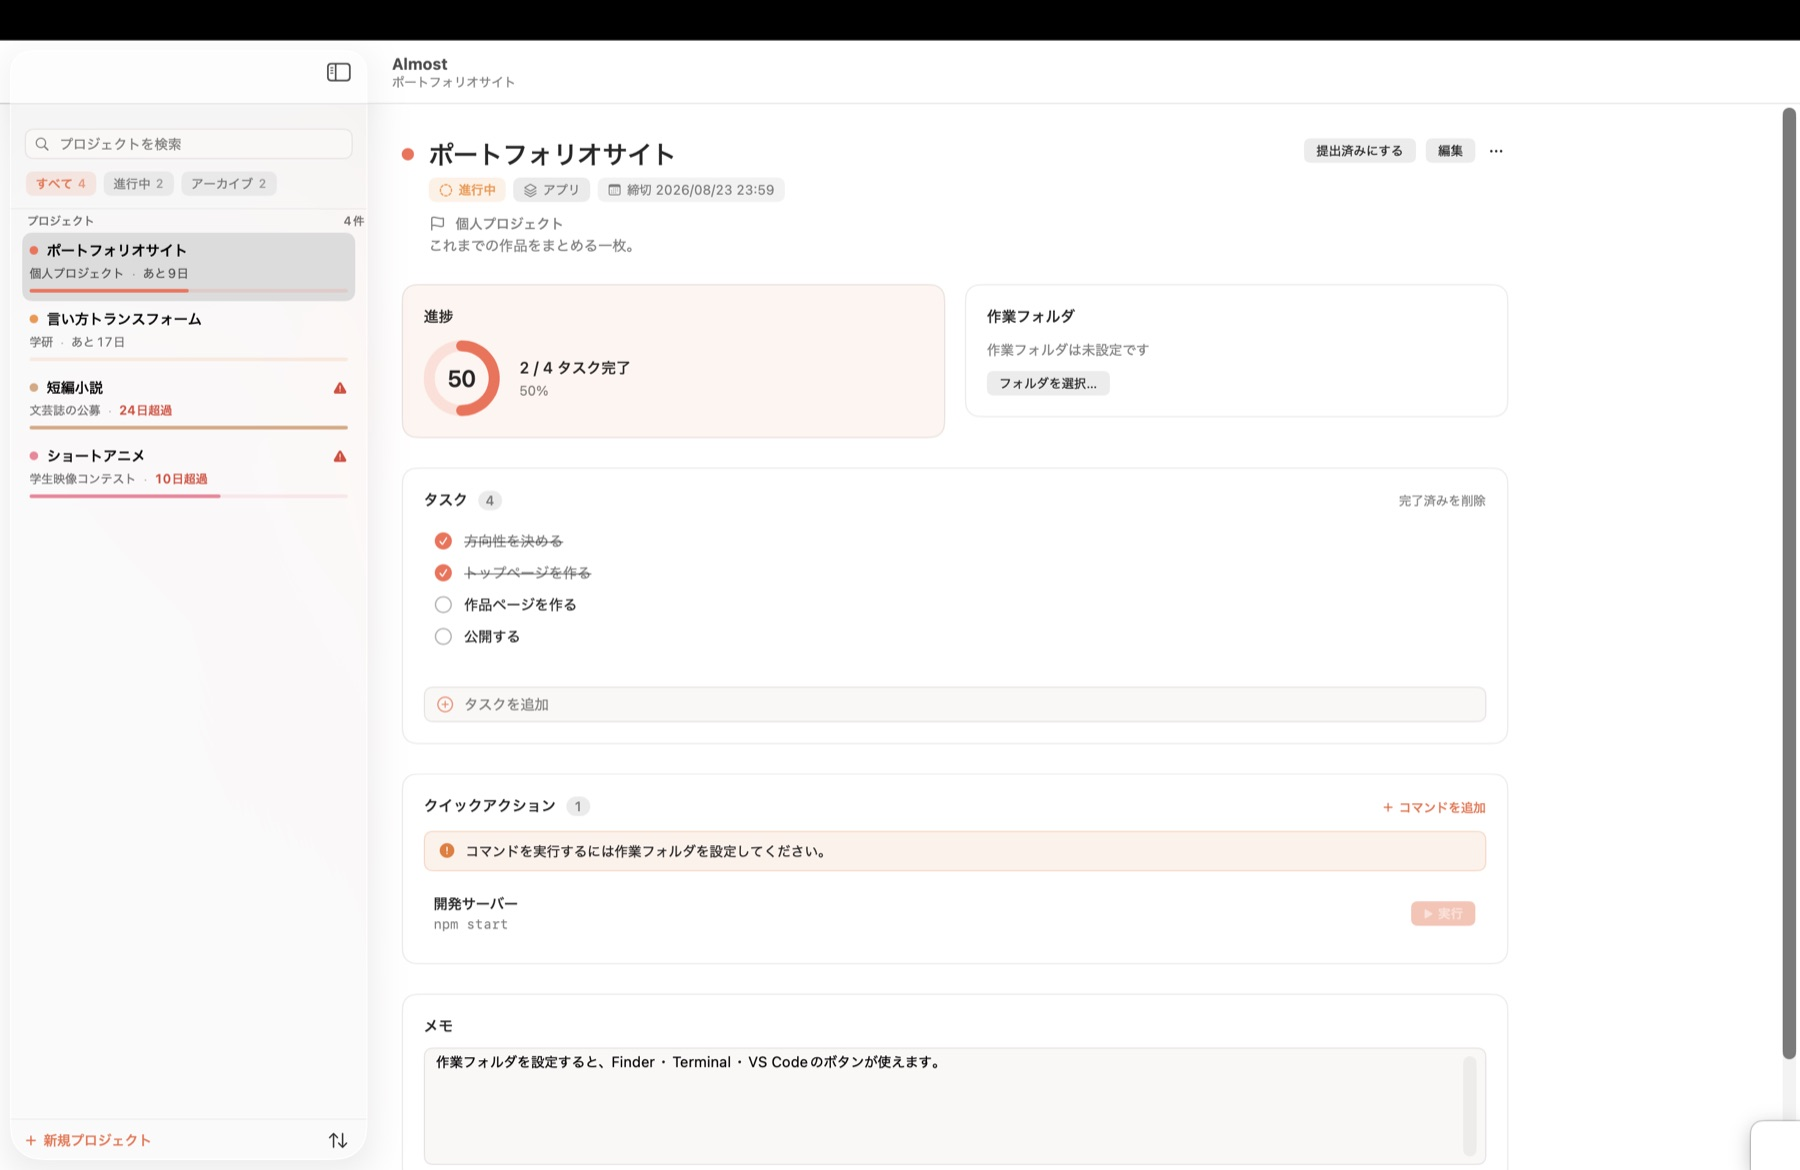
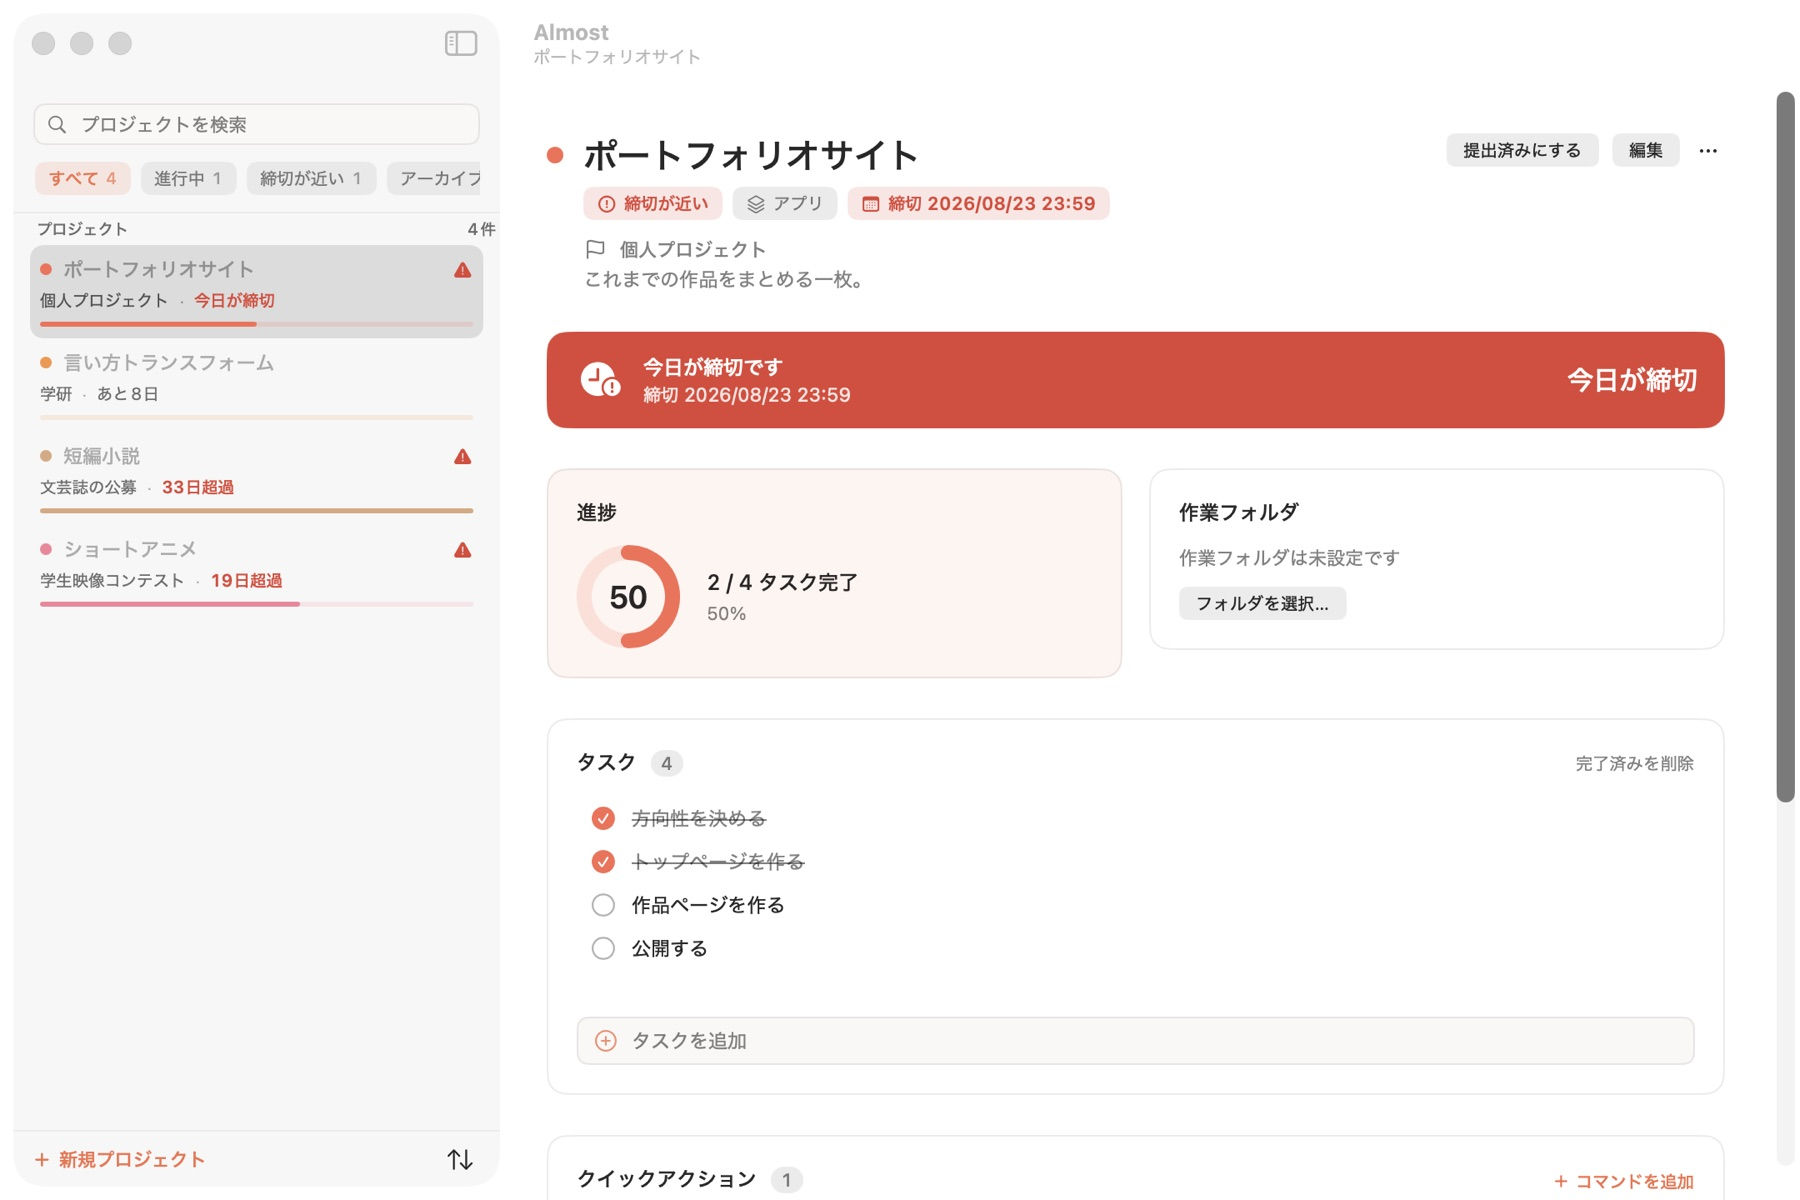
KV反映と新規プロジェクト追加（N-Helper / Termry / FileFlow / TempShelf / VideoWallpaper）

diff --git a/index.html b/index.html
@@ -9,7 +9,7 @@
 <meta property="og:title" content="K_Z_U — Portfolio">
 <meta property="og:description" content="macOS アプリ、デスクトップ環境、MCP サーバー、Minecraft サーバー運用。つくった道具の記録。">
 <meta property="og:type" content="website">
-<meta property="og:image" content="assets/minessh.jpg">
+  <meta property="og:image" content="assets/minessh-kv.jpg">
 <link rel="preconnect" href="https://fonts.googleapis.com">
 <link rel="preconnect" href="https://fonts.gstatic.com" crossorigin>
 <link href="https://fonts.googleapis.com/css2?family=Instrument+Serif:ital@0;1&family=Schibsted+Grotesk:wght@400;500;600&family=Zen+Kaku+Gothic+New:wght@400;500&family=JetBrains+Mono:wght@400;500&display=swap" rel="stylesheet">
@@ -161,6 +161,18 @@
   .detail-fig .plate { border-radius: 12px; }
   .detail-fig .plate img { height: auto; object-fit: contain; }
   .detail-fig .note { right: -22px; bottom: -22px; max-width: 26ch; }
+  /* ── previews (original screenshots shown under the key visual) ── */
+  .previews { padding-top: 3vh; }
+  .previews .pv-head { font-family: var(--mono); font-size: 10px; letter-spacing: .22em;
+                       text-transform: uppercase; opacity: .5; border-bottom: 1px solid var(--rule-2);
+                       padding-bottom: 10px; display: flex; justify-content: space-between; gap: 16px; }
+  .previews .pv-head span:last-child { opacity: .6; text-transform: none; letter-spacing: .04em;
+                                      font-family: var(--jp); font-size: 11px; }
+  .previews figure { position: relative; margin: 30px 0 0; }
+  .previews figure + figure { margin-top: 7vh; }
+  .previews figure .plate { border-radius: 12px; }
+  .previews figure .plate img { width: 100%; height: auto; object-fit: contain; }
+  .previews figure .note { right: -22px; bottom: -22px; max-width: 26ch; }
   .prose-grid { display: grid; grid-template-columns: .28fr .72fr; gap: 56px; padding: 10vh 0 6vh; align-items: start; }
   .marginnote { font-family: var(--mono); font-size: 10px; line-height: 2; letter-spacing: .04em; opacity: .55; text-align: right; }
   .prose-grid .lede { margin: 0; font-family: var(--jp); font-size: 17px; line-height: 2.2; }
@@ -321,6 +333,8 @@
     <div class="note">fig.01 — <span id="d-caption"></span></div>
   </div>
 
+  <section class="previews" id="d-previews" hidden></section>
+
   <section class="prose-grid">
     <div class="marginnote">傍注 / margin note<br>——<br>設計の判断だけを<br>短く残す。</div>
     <div>
@@ -367,7 +381,7 @@
 const PROJECTS = [
   /* ── featured ───────────────────────────────── */
   { title: "MineSSH", year: "2026.07", role: "設計・実装", stack: "Tauri · Rust · TypeScript",
-    img: "assets/minessh.jpg",
+    img: "assets/minessh.jpg", kv: "assets/minessh-kv.jpg",
     lede: "Minecraft サーバーの更新を、壊さずに終わらせる。",
     caption: "デプロイ前の差分確認",
     body: "Skript は 1 行の書き損じでサーバー全体が黙る。転送する前に検証し、壊れていたら自動で元に戻すところまでを 1 本の macOS アプリにまとめた。手順を覚えていなくても事故が起きない状態を、道具の側でつくっている。",
@@ -376,16 +390,16 @@ const PROJECTS = [
             ["備考", "U-22 プログラミングコンテスト 提出作品"]] },
 
   { title: "Almost", year: "2026.08", role: "設計・実装", stack: "Swift · SwiftUI · macOS",
-    img: "assets/almost.jpg",
+    img: "assets/almost.jpg", kv: "assets/almost-kv.jpg",
     lede: "「あと少し」で止まる制作物を、最後まで運ぶ。",
     caption: "締切と作業フォルダ",
-    body: "タスクではなく、締切と作業フォルダを画面の中心に置いた。残り日数は常に見えていて、3 日を切ると表示が変わり、超えると赤くなる。Finder・ターミナル・エディタはワンクリックで開く。管理するためではなく、手を動かし始めるためのアプリ。",
-    facts: [["形式", "macOS ネイティブアプリ"],
+    body: "タスクではなく、締切と作業フォルダを画面の中心に置いた。残り日数は常に見えていて、3 日を切ると表示が変わり、超えると赤くなる。Finder・ターミナル・エディタはワンクリック。登録したコマンドはアプリ内の zsh で走り、出力は色分けで読める。締切の 7 / 3 / 1 / 0 日前には通知が来る。",
+    facts: [["形式", "macOS ネイティブアプリ（Universal Binary）"],
             ["対象", "コンテスト応募・卒業制作・同人入稿・個人開発"],
-            ["構成", "Almost / AlmostKit の 2 ターゲット"]] },
+            ["備考", "クイックコマンド / 締切通知 / JSON バックアップ / 日英対応"]] },
 
   { title: "OpenCodeX", year: "2026.08", role: "個人開発", stack: "Tauri · React · TypeScript",
-    img: "assets/opencodex.jpg",
+    img: "assets/opencodex.jpg", kv: "assets/opencodex-kv.jpg",
     lede: "ローカルと SSH 先を、ひとつの机の上に。",
     caption: "プロジェクトと作業ルート",
     body: "プロジェクトが複数の作業ルート —— ローカルフォルダと SSH ホスト —— を束ねる。一度開いたルートは温かいまま残り、戻ってきても起動を待たされない。セッション・モデル選択・ツールの動き・権限・差分が、ひとつの面の上に並んでいる。",
@@ -394,7 +408,7 @@ const PROJECTS = [
             ["特徴", "起動済みルートへ再アタッチして待たない"]] },
 
   { title: "EyeVideo", year: "2026.08", role: "個人開発", stack: "Swift · ScreenCaptureKit",
-    img: "assets/eyevideo.jpg",
+    img: "assets/eyevideo.jpg", kv: "assets/eyevideo-kv.jpg",
     lede: "ミスった瞬間に、今のテイクだけ捨てる。",
     caption: "ホットキーと出力設定",
     body: "ゲームをしながら録画して、失敗した瞬間にホットキーを叩くと今のテイクを破棄して即座に録り直しが始まる。キャプチャ自体は一度も止まらない。自動復帰・スリープ抑止・断片書き出し・自動ロールオーバーまで面倒を見る。",
@@ -402,9 +416,54 @@ const PROJECTS = [
             ["基盤", "ScreenCaptureKit + AVAssetWriter"],
             ["特徴", "全画面のゲーム中でも効くグローバルホットキー"]] },
 
+  { title: "N-Helper", year: "2026.08", role: "設計・実装", stack: "React · TypeScript · Cloudflare Workers",
+    img: "assets/nhelp.jpg",
+    lede: "学校の「どこに聞けばいいか」に、まず答える。",
+    caption: "ウェルカム画面と話題チップ",
+    body: "N 高・S 高の生徒向けのヘルパー。Slack の使い方、Times、同好会、各種申請 —— 入り口がわからなくて詰まる質問に答える。回答を生むのは miibo 上の 2 体のエージェント（Mini / High）で、Worker は鍵を一切持たずに中継だけする。miibo の NDJSON の累積値は差分に直して SSE で流す。運ぶ層は薄いまま、判断はエージェント側。",
+    facts: [["形式", "Web アプリ + Electron デスクトップ版"],
+            ["対象", "Slack / Times / 同好会 / 各種申請 / 学校生活"],
+            ["公開", "n-help.myais.workers.dev"]] },
+
   /* ── archive ────────────────────────────────── */
+  { title: "Termry", year: "2026.08", role: "個人開発", stack: "Tauri · Rust · xterm.js",
+    img: "assets/termry.jpg",
+    lede: "ターミナルに、仕事の棚をつくる。",
+    caption: "ワークスペースとクイックコマンド",
+    body: "ワークスペースがプロジェクトごとのタブを束ねる。よく流すコマンドはパネルに置いてワンクリックで入力し、エイリアスと SSH プロファイルも同じ面に並べる。描画は WebGL の xterm —— 重い出力でもスクロールが止まらない。",
+    facts: [["形式", "macOS ターミナルアプリ（Tauri 2）"],
+            ["構成", "ワークスペース / タブ / クイックコマンド / SSH プロファイル"],
+            ["描画", "xterm.js + WebGL アドオン"]] },
+
+  { title: "FileFlow", year: "2026.08", role: "設計・実装", stack: "Swift · SwiftUI · AppKit",
+    img: "assets/fileflow.jpg",
+    lede: "Finder の次に開く、もう一台のファイラー。",
+    caption: "起動直後のホームビュー",
+    body: "タブ、グリッド / テーブル表示、Quick Look、一括リネーム、アーカイブの中身の閲覧まで。検索は構文解析つきのフィルタで、Spotlight と自前インデックスを切り替える。転送はジョブとして積んで、進行と停止をセンターで見る。",
+    facts: [["形式", "macOS ネイティブアプリ（Universal Binary）"],
+            ["検索", "クエリパーサ + ランキング / Spotlight・高速インデックス切替"],
+            ["配布", "DMG"]] },
+
+  { title: "TempShelf", year: "2026.08", role: "個人開発", stack: "Swift · SwiftUI · AppKit",
+    img: "assets/tempshelf.jpg",
+    lede: "「あとで使う」を、すぐ取り出せる場所に。",
+    caption: "一時置き場のメイン画面",
+    body: "テキスト・URL・画像・ファイルを置いて、あとですぐ取り出すためだけの一時置き場。クリップボードの中身を自動で拾うモードもあり、保存期間は 3 時間で勝手に消える。メモ管理も同期もアカウントもない —— 置くことと、取ることだけをする。",
+    facts: [["形式", "macOS アプリ（メニューバー常駐）"],
+            ["対象", "テキスト / URL / 画像 / ファイル"],
+            ["方針", "ローカル完結 / 自動消去 / 日英対応"]] },
+
+  { title: "VideoWallpaper", year: "2026.08", role: "個人開発", stack: "Swift · SwiftUI · AppKit",
+    img: "assets/videowallpaper.jpg",
+    lede: "デスクトップを、動く景色に。",
+    caption: "プレビューと背景への設定",
+    body: "ローカルの動画を選んで、そのままデスクトップアイコンの背面へループ再生させる。バッテリー駆動中は自動で一時停止し、動画が外部へ送られることは一度もない。",
+    facts: [["形式", "macOS ネイティブアプリ"],
+            ["再生", "デスクトップアイコンの背面でループ"],
+            ["配慮", "オフライン完結 / バッテリー時は自動停止"]] },
+
   { title: "MTM", year: "2026.08", role: "個人開発", stack: "Swift · AVFoundation · DSP",
-    img: "assets/mtm.jpg",
+    img: "assets/mtm.jpg", kv: "assets/mtm-kv.jpg",
     lede: "曲を放り込むと、音符ブロックの建造物になる。",
     caption: "採譜結果のピアノロール",
     body: "STFT で倍音を差し引きながら多重音のピッチを推定し、経路探索で旋律と低音を 1 本の線として抜き出す。ドラムは帯域別のスペクトラルフラックで拾う。出力は Minecraft のデータパック —— レッドストーンで実際に演奏される建造物になる。ffmpeg も Homebrew も要らない。",
@@ -479,7 +538,7 @@ const PROJECTS = [
             ["範囲", "今日のみ / 同時実行は 1 件"]] }
 ];
 
-const FEATURED_COUNT = 4;
+const FEATURED_COUNT = 5;
 
 /* ═══ render ════════════════════════════════════ */
 const $  = (s, r = document) => r.querySelector(s);
@@ -496,7 +555,7 @@ function renderIndex() {
       <div class="fig">
         <div class="plate" data-reveal="arch" data-para="${i % 2 === 0 ? "1.05" : "0.95"}"
              style="height:${figH(i)}; border-radius:${radius(i)};">
-          <img src="${esc(p.img)}" alt="${esc(p.title)} のスクリーンショット" loading="lazy" decoding="async">
+          <img src="${esc(p.kv || p.img)}" alt="${esc(p.title)} のキービジュアル" loading="lazy" decoding="async">
         </div>
         <div class="note">fig.0${i + 1} — ${esc(p.caption)}</div>
       </div>
@@ -525,10 +584,24 @@ function renderDetail(i) {
   $("#d-title").textContent   = p.title;
   $("#d-meta").textContent    = p.year + " / " + p.role;
   $("#d-stack").textContent   = p.stack;
-  $("#d-caption").textContent = p.caption;
   $("#d-lede").textContent    = p.lede;
   $("#d-body").textContent    = p.body;
-  $("#d-plate").innerHTML     = `<img src="${esc(p.img)}" alt="${esc(p.title)} のスクリーンショット" decoding="async">`;
+  /* key visual sits at the very top; the plain screenshot drops to a preview below */
+  $("#d-caption").textContent = p.kv ? "key visual" : p.caption;
+  $("#d-plate").innerHTML     = `<img src="${esc(p.kv || p.img)}" alt="${esc(p.title)} のキービジュアル" decoding="async">`;
+  const pv = $("#d-previews");
+  if (p.kv) {
+    pv.hidden = false;
+    pv.innerHTML = `
+      <div class="pv-head"><span>Preview</span><span>実際の画面</span></div>
+      <figure data-reveal="up">
+        <div class="plate"><img src="${esc(p.img)}" alt="${esc(p.title)} のスクリーンショット" loading="lazy" decoding="async"></div>
+        <div class="note">fig.02 — ${esc(p.caption)}</div>
+      </figure>`;
+  } else {
+    pv.hidden = true;
+    pv.innerHTML = "";
+  }
   $("#d-facts").innerHTML = (p.facts || [])
     .map(([k, v]) => `<li><span class="k">${esc(k)}</span><span class="v">${esc(v)}</span></li>`).join("");
   $("#d-next-title").textContent = PROJECTS[nx].title;
@@ -626,7 +699,7 @@ document.addEventListener("mouseover", e => {
   const p = PROJECTS[Number(row.dataset.open)];
   if (peek.dataset.for !== row.dataset.open) {
     peek.dataset.for = row.dataset.open;
-    peek.innerHTML = `<img src="${esc(p.img)}" alt="" loading="lazy" decoding="async">`;
+    peek.innerHTML = `<img src="${esc(p.kv || p.img)}" alt="" loading="lazy" decoding="async">`;
   }
   peek.style.opacity = "1";
   peek.style.left = Math.min(innerWidth - 170, e.clientX + 230) + "px";

diff --git a/README.md b/README.md
@@ -3,20 +3,20 @@
 つくった道具の記録。**https://k-z-u.github.io/**
 
 macOS アプリ、デスクトップ環境、MCP サーバー、Minecraft サーバーの運用。
-13 件を Featured 4 件 + Archive 9 件で並べた 1 ページのサイトです。
+18 件を Featured 5 件 + Archive 13 件で並べた 1 ページのサイトです。
 
 ---
 
 ## つくり
 
-- **ビルド不要の静的サイト。** HTML 1 枚と JPEG 13 枚だけ。npm も CDN も使っていません
+- **ビルド不要の静的サイト。** HTML 1 枚と JPEG 23 枚だけ。npm も CDN も使っていません
 - **依存はフォントのみ** — Google Fonts（Instrument Serif / Schibsted Grotesk / Zen Kaku Gothic New / JetBrains Mono）。
   読み込めない環境ではシステムフォントに落ちます
 - **ルーティングは JS。** 一覧と詳細を同じページで切り替えます（URL は変わりません）
 
 ```
 index.html          ページ全部（HTML / CSS / データ / スクリプト）
-assets/*.jpg        各プロジェクトのスクリーンショット（長辺 1800px / JPEG 82）
+assets/*.jpg        各プロジェクトの画像。*-kv.jpg はキービジュアル、他はスクリーンショット（JPEG 82）
 おしゃしん/         変換前の元画像。.gitignore で除外
 ```
 
@@ -36,17 +36,24 @@ python3 -m http.server 4173
 ```js
 { title: "MineSSH", year: "2026.07", role: "設計・実装", stack: "Tauri · Rust · TypeScript",
   img: "assets/minessh.jpg",
+  kv: "assets/minessh-kv.jpg",                                // キービジュアル（任意）。詳細の最上部と一覧に使う
   lede: "Minecraft サーバーの更新を、壊さずに終わらせる。",   // 一覧と詳細の見出し下
   caption: "デプロイ前の差分確認",                            // 図版の傍注（fig.01 — …）
   body: "…",                                                  // 詳細ページの本文
   facts: [["形式", "…"], ["中身", "…"]] }                     // 詳細ページの表
 ```
 
-- 配列の**上から `FEATURED_COUNT` 件**（現在 4）が Featured、残りが Archive です。
+- 配列の**上から `FEATURED_COUNT` 件**（現在 5）が Featured、残りが Archive です。
   順番を入れ替えるだけで昇格・降格できます
-- 画像は長辺 1800px 程度に落としてから `assets/` へ。macOS なら:
+- スクリーンショットは長辺 1800px 程度に落としてから `assets/` へ。macOS なら:
   ```bash
   sips -s format jpeg -s formatOptions 82 -Z 1800 元画像.png --out assets/名前.jpg
+  ```
+- **KV があるプロジェクト**（`kv` フィールドあり）は、詳細ページ最上部に KV を出し、
+  `img` のスクリーンショットはその下の Preview セクションに出る。KV 自体は
+  元サイズ（1672 / 1536px）から上げずに変換する:
+  ```bash
+  sips -s format jpeg -s formatOptions 82 KV画像.png --out assets/名前-kv.jpg
   ```
 - **Featured の図版は cover で切り抜かれます**（アーチ型のため）。
   スクリーンショット全体は詳細ページ側で原寸比率のまま出ます
